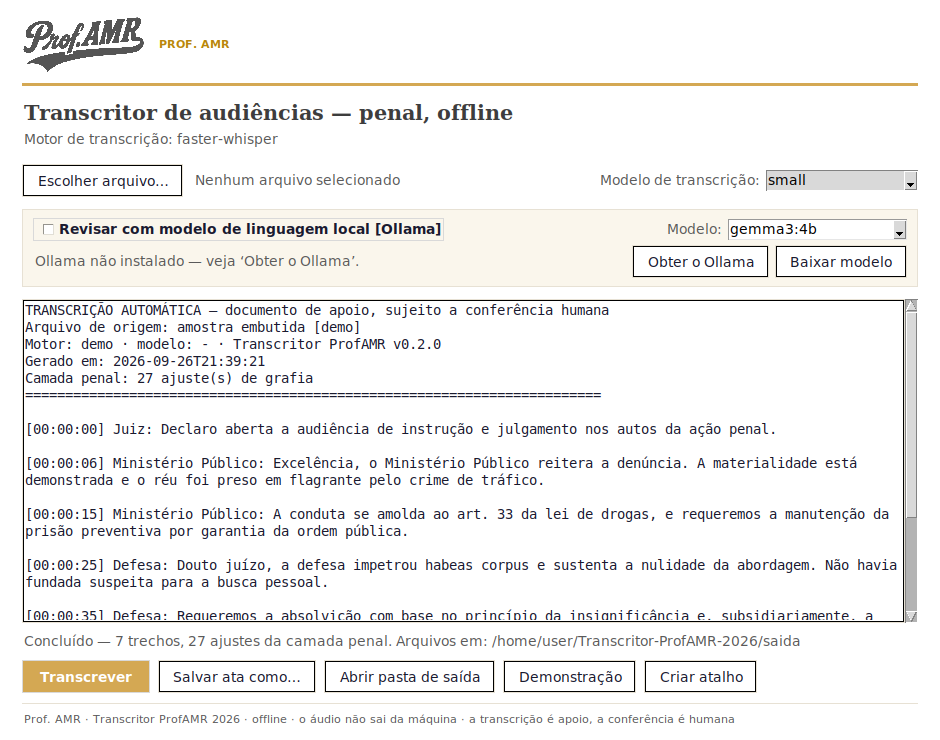
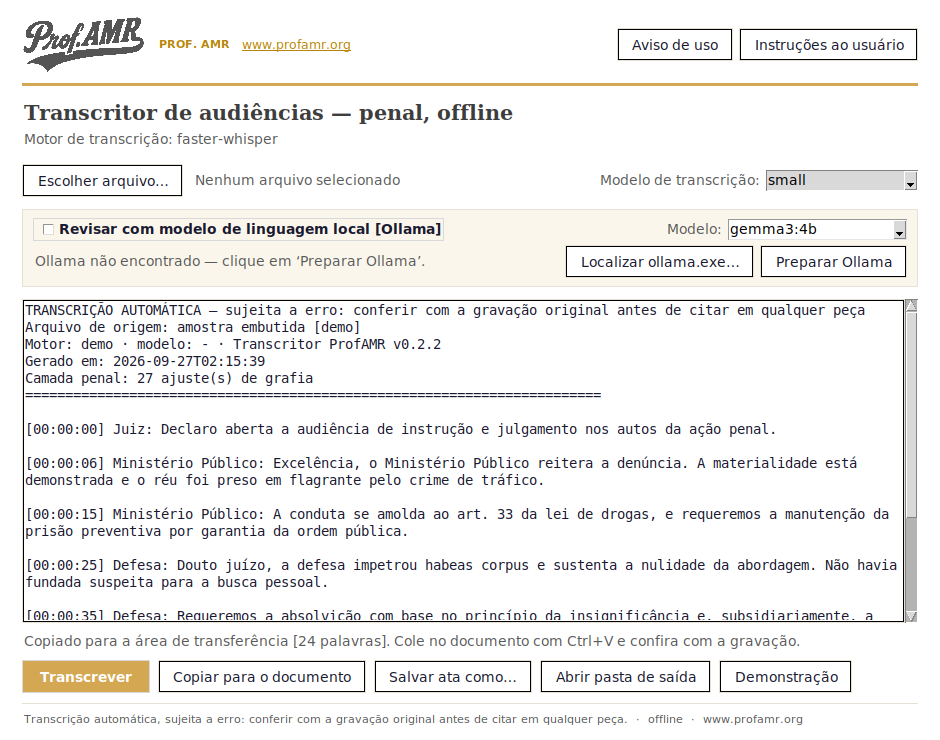
v0.2.2: copiar para o documento, link do site, instruções ao usuário e aviso de uso
- botão 'Copiar para o documento': copia as falas sem o cabeçalho técnico,
  com o minuto de cada fala; com trecho selecionado, copia só o trecho
- www.profamr.org ao lado da logo [link], também no rodapé
- 'Instruções ao usuário': janela com o passo a passo
  [dados/INSTRUCOES-AO-USUARIO.txt, também na raiz do pacote], com atalho
  para criar o ícone na Área de Trabalho; substitui COMO-USAR.txt
- aviso de uso padrão: na primeira abertura de cada versão, no botão
  'Aviso de uso', no rodapé, na primeira linha da ata, no README e nas
  notas do Release
- configuração do usuário centralizada em paths [config.json]

Claude-Session: https://claude.ai/code/session_01Xm7JuxZNvFxKTkBN96eqyu

diff --git a/transcritor/gui.py b/transcritor/gui.py
@@ -15,9 +15,10 @@ import os
 import subprocess
 import sys
 import threading
+import webbrowser
 from pathlib import Path
 
-from . import __version__, asr, atalho, llm_local, paths, pipeline
+from . import __version__, asr, atalho, llm_local, paths, pipeline, textos
 
 PASTA_DADOS = paths.pasta_dados()
 SAIDA = paths.pasta_saida()
@@ -105,8 +106,43 @@ def iniciar() -> int:
         tk.Label(marca, image=img, bg=BG).pack(side="left")
     except Exception:
         pass
-    lbl(marca, "PROF. AMR", font=F_KICKER, fg=GOLD_DEEP).pack(side="left", padx=12)
+    lbl(marca, "PROF. AMR", font=F_KICKER, fg=GOLD_DEEP).pack(side="left", padx=(12, 8))
+    link_site = lbl(marca, textos.SITE, font=("Segoe UI", 9, "underline"),
+                    fg=GOLD_DEEP, cursor="hand2")
+    link_site.pack(side="left")
+    link_site.bind("<Button-1>", lambda _e: webbrowser.open(textos.SITE_URL))
     tk.Frame(app, bg=GOLD, height=3).pack(fill="x", padx=22, pady=(10, 0))
+
+    def janela_texto(titulo: str, conteudo: str, extra=None):
+        jan = tk.Toplevel(app)
+        jan.title(titulo)
+        jan.configure(bg=BG)
+        jan.geometry("720x620")
+        lbl(jan, titulo, font=F_TITLE, fg=HEAD).pack(anchor="w", padx=18, pady=(14, 6))
+        caixa_txt = scrolledtext.ScrolledText(jan, wrap="word", font=F_MONO, bg="#FFFFFF",
+                                              fg=INK, relief="solid", bd=1, height=10)
+        caixa_txt.pack(fill="both", expand=True, padx=18)
+        caixa_txt.insert("1.0", conteudo)
+        caixa_txt.config(state="disabled")
+        rodape = tk.Frame(jan, bg=BG)
+        rodape.pack(fill="x", padx=18, pady=10)
+        botao(rodape, "Fechar", jan.destroy).pack(side="right")
+        if extra:
+            extra(rodape)
+        return jan
+
+    def mostrar_instrucoes():
+        def extras(rodape):
+            botao(rodape, "Criar atalho na Área de Trabalho", criar_atalho).pack(side="left")
+            botao(rodape, "Abrir " + textos.SITE,
+                  lambda: webbrowser.open(textos.SITE_URL)).pack(side="left", padx=8)
+        janela_texto("Instruções ao usuário", textos.instrucoes(), extras)
+
+    def mostrar_aviso():
+        messagebox.showinfo(textos.AVISO_TITULO, textos.AVISO)
+
+    botao(marca, "Instruções ao usuário", mostrar_instrucoes).pack(side="right")
+    botao(marca, "Aviso de uso", mostrar_aviso).pack(side="right", padx=6)
 
     # ---- Cabecalho ---------------------------------------------------------
     topo = tk.Frame(app, bg=BG)
@@ -372,6 +408,21 @@ def iniciar() -> int:
             Path(destino).write_text(txt.get("1.0", "end-1c"), encoding="utf-8")
             messagebox.showinfo("Salvo", f"Ata salva em:\n{destino}")
 
+    def copiar_documento():
+        try:
+            trecho = txt.get("sel.first", "sel.last")
+        except tk.TclError:  # sem selecao: copia todas as falas, sem cabecalho
+            trecho = pipeline.separar_corpo(txt.get("1.0", "end-1c"))
+        if not trecho.strip():
+            messagebox.showinfo("Copiar", "Transcreva primeiro.")
+            return
+        app.clipboard_clear()
+        app.clipboard_append(trecho)
+        app.update()  # mantem o conteudo na area de transferencia do sistema
+        n = len(trecho.split())
+        log(f"Copiado para a área de transferência [{n} palavras]. Cole no documento "
+            "com Ctrl+V e confira com a gravação.")
+
     def criar_atalho():
         alvo = atalho.criar_atalho_windows()
         if alvo:
@@ -383,11 +434,11 @@ def iniciar() -> int:
 
     btn = botao(acoes, "Transcrever", transcrever, primario=True)
     btn.pack(side="left")
-    botao(acoes, "Salvar ata como…", salvar_como).pack(side="left", padx=8)
-    botao(acoes, "Abrir pasta de saída", lambda: _abrir_pasta(SAIDA)).pack(side="left")
+    botao(acoes, "Copiar para o documento", copiar_documento).pack(side="left", padx=8)
+    botao(acoes, "Salvar ata como…", salvar_como).pack(side="left")
+    botao(acoes, "Abrir pasta de saída", lambda: _abrir_pasta(SAIDA)).pack(side="left", padx=8)
     btn_demo = botao(acoes, "Demonstração", demonstrar)
-    btn_demo.pack(side="left", padx=8)
-    botao(acoes, "Criar atalho", criar_atalho).pack(side="left")
+    btn_demo.pack(side="left")
 
     # Cria o atalho na Area de Trabalho no primeiro uso (Windows/.exe), silencioso.
     def _atalho_inicial():
@@ -401,9 +452,18 @@ def iniciar() -> int:
     tk.Frame(app, bg=RULE, height=1).pack(fill="x", padx=22, pady=(4, 0))
     rod = tk.Frame(app, bg=BG)
     rod.pack(fill="x", padx=22, pady=(6, 12))
-    lbl(rod, "Prof. AMR · Transcritor ProfAMR 2026 · offline · o áudio não sai da "
-        "máquina · a transcrição é apoio, a conferência é humana",
+    lbl(rod, f"{textos.AVISO_CURTO}  ·  offline  ·  {textos.SITE}",
         fg=META, font=("Segoe UI", 8)).pack(side="left")
+
+    # Aviso de uso na primeira abertura [e a cada nova versao].
+    def aviso_inicial():
+        if paths.ler_config().get("aviso_aceito") != __version__:
+            mostrar_aviso()
+            try:
+                paths.gravar_config("aviso_aceito", __version__)
+            except OSError:
+                pass
+    app.after(300, aviso_inicial)
 
     app.mainloop()
     return 0

diff --git a/transcritor/textos.py b/transcritor/textos.py
@@ -1,0 +1,43 @@
+"""Textos fixos exibidos ao usuario: aviso de uso e instrucoes."""
+from __future__ import annotations
+
+from . import paths
+
+SITE = "www.profamr.org"
+SITE_URL = "https://www.profamr.org"
+
+AVISO_TITULO = "Aviso de uso"
+
+AVISO = (
+    "A transcrição é gerada automaticamente por modelo de reconhecimento de fala "
+    "e, quando ativada, revisada por modelo de linguagem local. O resultado pode "
+    "conter omissões, palavras trocadas, erros de pontuação e falas atribuídas de "
+    "forma incorreta.\n\n"
+    "O texto não substitui a gravação audiovisual, que permanece a fonte oficial do "
+    "ato. Toda citação em voto, decisão, parecer ou petição deve ser conferida com "
+    "o áudio ou o vídeo original, no minuto indicado entre colchetes.\n\n"
+    "A responsabilidade pelo conteúdo cabe a quem assina o documento. O "
+    "processamento ocorre no próprio computador: nenhum áudio ou texto é enviado "
+    "a terceiros."
+)
+
+# Primeira linha do cabecalho da ata.
+AVISO_ATA = (
+    "TRANSCRIÇÃO AUTOMÁTICA — sujeita a erro: conferir com a gravação original "
+    "antes de citar em qualquer peça"
+)
+
+# Versao curta: rodape da janela.
+AVISO_CURTO = (
+    "Transcrição automática, sujeita a erro: conferir com a gravação original "
+    "antes de citar em qualquer peça."
+)
+
+
+def instrucoes() -> str:
+    """Instrucoes ao usuario [dados/INSTRUCOES-AO-USUARIO.txt]."""
+    caminho = paths.pasta_dados() / "INSTRUCOES-AO-USUARIO.txt"
+    try:
+        return caminho.read_text(encoding="utf-8")
+    except OSError:
+        return f"Instruções não encontradas em {caminho}."

diff --git a/transcritor/pipeline.py b/transcritor/pipeline.py
@@ -21,7 +21,7 @@ from datetime import datetime
 from pathlib import Path
 from typing import Callable, Dict, List, Optional
 
-from . import __version__, llm_local, rotulos
+from . import __version__, llm_local, rotulos, textos
 from .pos_penal import RelatorioCorrecao, carregar_correcoes, processar_texto
 
 Progresso = Optional[Callable[[str], None]]
@@ -190,7 +190,7 @@ def linha_ata(t: Trecho) -> str:
 
 def cabecalho_ata(meta: Metadados, rel: Relatorio) -> str:
     linhas = [
-        "TRANSCRIÇÃO AUTOMÁTICA — documento de apoio, sujeito a conferência humana",
+        textos.AVISO_ATA,
         f"Arquivo de origem: {meta.arquivo}",
         f"SHA-256 do arquivo: {meta.sha256}" if meta.sha256 else "",
         f"Motor: {meta.motor} · modelo: {meta.modelo} · Transcritor ProfAMR v{meta.versao}",
@@ -205,7 +205,16 @@ def cabecalho_ata(meta: Metadados, rel: Relatorio) -> str:
     if not rel.mapa_falantes and meta.motor == "faster-whisper":
         linhas.append("Falantes: não identificados [o motor não separa vozes]")
     linhas += rel.avisos
-    return "\n".join(l for l in linhas if l) + "\n" + "=" * 72
+    return "\n".join(l for l in linhas if l) + "\n" + SEPARADOR
+
+
+SEPARADOR = "=" * 72
+
+
+def separar_corpo(ata: str) -> str:
+    """Devolve so as falas da ata, sem o cabecalho tecnico [para colar em peca]."""
+    antes, sep, depois = ata.partition(SEPARADOR)
+    return (depois if sep else antes).strip()
 
 
 def escrever_saidas(

diff --git a/transcritor/paths.py b/transcritor/paths.py
@@ -7,9 +7,10 @@ Funciona tambem empacotado (PyInstaller). Quando o app roda como executavel
 """
 from __future__ import annotations
 
+import json
 import sys
 from pathlib import Path
-from typing import List
+from typing import Any, List
 
 
 def empacotado() -> bool:
@@ -51,3 +52,23 @@ def pastas_modelos() -> List[Path]:
 def pastas_ollama() -> List[Path]:
     """Onde procurar o Ollama portatil [conteudo do ollama-windows-amd64.zip]."""
     return [pasta_app() / "ollama", pasta_usuario() / "ollama"]
+
+
+def arquivo_config() -> Path:
+    return pasta_usuario() / "config.json"
+
+
+def ler_config() -> dict:
+    try:
+        dados = json.loads(arquivo_config().read_text(encoding="utf-8"))
+        return dados if isinstance(dados, dict) else {}
+    except (OSError, ValueError):
+        return {}
+
+
+def gravar_config(chave: str, valor: Any) -> None:
+    dados = ler_config()
+    dados[chave] = valor
+    cfg = arquivo_config()
+    cfg.parent.mkdir(parents=True, exist_ok=True)
+    cfg.write_text(json.dumps(dados, ensure_ascii=False, indent=2), encoding="utf-8")

diff --git a/transcritor/llm_local.py b/transcritor/llm_local.py
@@ -130,28 +130,13 @@ def modelo_instalado(nome: str) -> bool:
     return any(_mesmo_modelo(nome, m) for m in modelos_instalados())
 
 
-def _arquivo_config() -> Path:
-    return paths.pasta_usuario() / "config.json"
-
-
 def caminho_salvo() -> Optional[Path]:
-    try:
-        dados = json.loads(_arquivo_config().read_text(encoding="utf-8"))
-        cam = Path(dados.get("ollama_exe", ""))
-        return cam if cam.is_file() else None
-    except (OSError, ValueError):
-        return None
+    cam = paths.ler_config().get("ollama_exe")
+    return Path(cam) if cam and Path(cam).is_file() else None
 
 
 def salvar_caminho(exe: Path) -> None:
-    cfg = _arquivo_config()
-    cfg.parent.mkdir(parents=True, exist_ok=True)
-    try:
-        dados = json.loads(cfg.read_text(encoding="utf-8"))
-    except (OSError, ValueError):
-        dados = {}
-    dados["ollama_exe"] = str(exe)
-    cfg.write_text(json.dumps(dados, ensure_ascii=False, indent=2), encoding="utf-8")
+    paths.gravar_config("ollama_exe", str(exe))
 
 
 def _candidatos_windows() -> List[Path]:

diff --git a/tests/test_pipeline.py b/tests/test_pipeline.py
@@ -88,3 +88,21 @@ def test_modelo_local_ao_lado_do_programa(tmp_path, monkeypatch):
 def test_arquivo_inexistente(tmp_path):
     with pytest.raises(FileNotFoundError):
         pipeline.executar(tmp_path / "nao.mp4", paths.pasta_dados(), tmp_path)
+
+
+def test_ata_traz_aviso_e_copia_sem_cabecalho(tmp_path):
+    from transcritor import textos
+    _p, _r, saidas, _m = pipeline.executar(None, paths.pasta_dados(), tmp_path, demo=True)
+    ata = saidas["txt"].read_text(encoding="utf-8")
+    assert ata.startswith(textos.AVISO_ATA)
+    corpo = pipeline.separar_corpo(ata)
+    assert corpo.startswith("[00:00:00] Juiz: Declaro aberta")
+    assert "SHA-256" not in corpo and "TRANSCRIÇÃO AUTOMÁTICA" not in corpo
+    assert pipeline.separar_corpo("texto editado sem cabecalho") == "texto editado sem cabecalho"
+
+
+def test_instrucoes_empacotadas():
+    from transcritor import textos
+    txt = textos.instrucoes()
+    assert "INSTRUÇÕES AO USUÁRIO" in txt and "Copiar para o documento" in txt
+    assert textos.SITE in txt

diff --git a/transcritor/__init__.py b/transcritor/__init__.py
@@ -4,5 +4,5 @@ Cópia independente (nao fork) inspirada no TecJustica Transcribe (MIT).
 Foco: Direito Penal e Processo Penal, em portugues, 100% offline.
 """
 
-__version__ = "0.2.1"
+__version__ = "0.2.2"
 __all__ = ["pos_penal", "rotulos", "pipeline", "llm_local", "asr", "gui", "cli", "autoteste"]

diff --git a/README.md b/README.md
@@ -19,9 +19,12 @@ Ferramenta livre e gratuita para gabinetes, defensorias, promotorias e escritór
 1. Baixe o **[`TranscritorProfAMR-Windows.zip`](../../releases/latest/download/TranscritorProfAMR-Windows.zip)** na página de **[Releases](../../releases/latest)**.
 2. **Descompacte a pasta inteira** [não mova só o executável].
 3. Abra **`TranscritorProfAMR.exe`** com duplo clique. O atalho na Área de Trabalho é criado no primeiro uso.
-4. Clique em **Escolher arquivo…**, selecione o áudio ou vídeo da audiência, clique em **Transcrever** e salve a ata.
+4. Clique em **Escolher arquivo…**, selecione o áudio ou vídeo da audiência e clique em **Transcrever**.
+5. Clique em **Copiar para o documento** e cole no voto ou na petição com `Ctrl+V` [sem o cabeçalho técnico; para copiar só um trecho, selecione-o antes].
 
-Na primeira transcrição o modelo Whisper escolhido é baixado uma vez [`small` ≈ 484 MB]; depois o programa roda sem internet. Para máquina sem internet, veja [`MODELOS.md`](MODELOS.md). Passo a passo em [`COMO-USAR.txt`](COMO-USAR.txt) e no [`tutorial`](docs/TUTORIAL.md).
+Na primeira transcrição o modelo Whisper escolhido é baixado uma vez [`small` ≈ 484 MB]; depois o programa roda sem internet. Para máquina sem internet, veja [`MODELOS.md`](MODELOS.md). Passo a passo em [`INSTRUCOES-AO-USUARIO.txt`](dados/INSTRUCOES-AO-USUARIO.txt) [também no botão **Instruções ao usuário** da janela] e no [`tutorial`](docs/TUTORIAL.md).
+
+> **Aviso de uso.** A transcrição é gerada automaticamente e pode conter omissões, palavras trocadas, erros de pontuação e falas atribuídas de forma incorreta. O texto não substitui a gravação audiovisual, fonte oficial do ato. Toda citação em voto, decisão, parecer ou petição deve ser conferida com o áudio ou o vídeo original, no minuto indicado entre colchetes. A responsabilidade pelo conteúdo cabe a quem assina o documento.
 
 ### Revisão por modelo local [Ollama, opcional]
 
